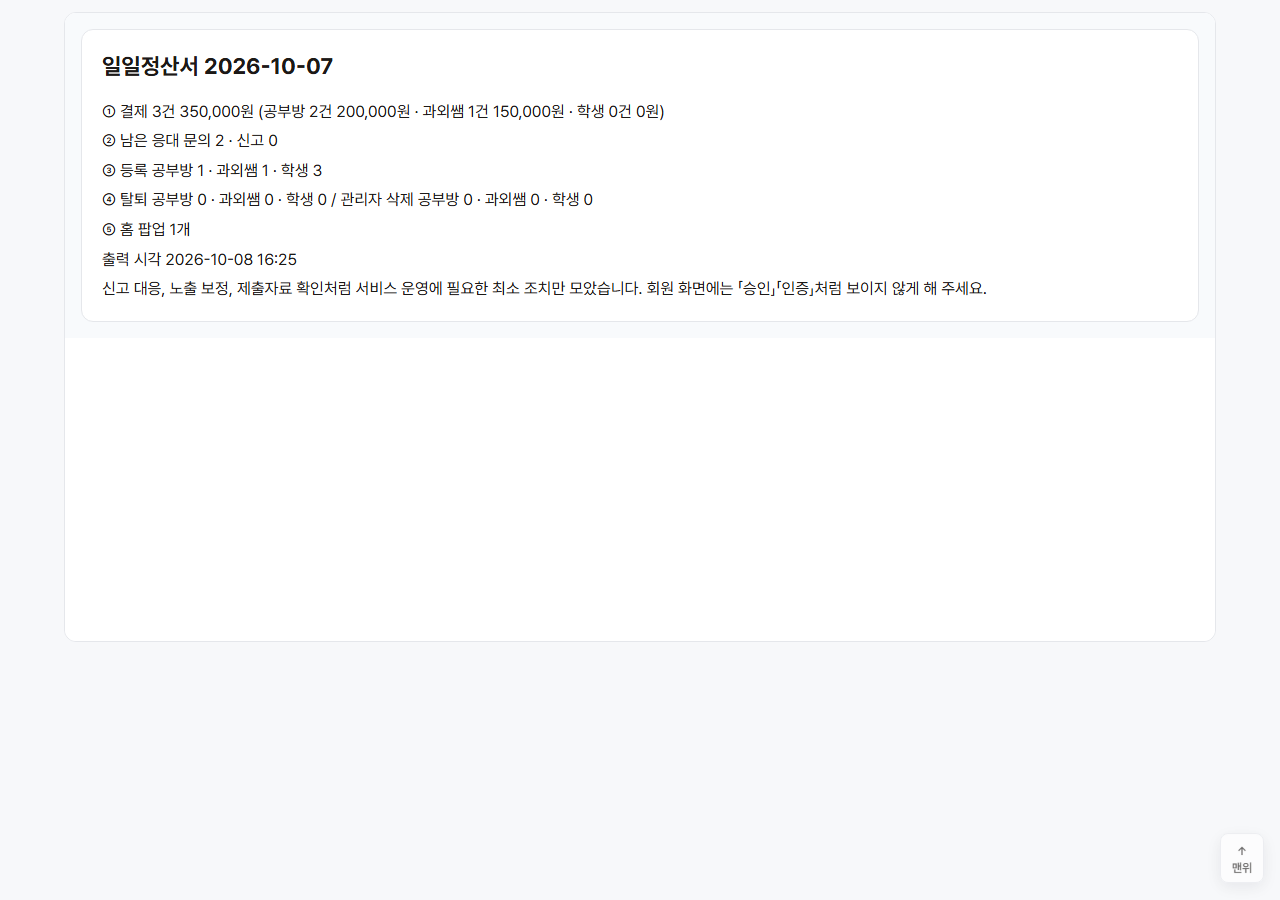
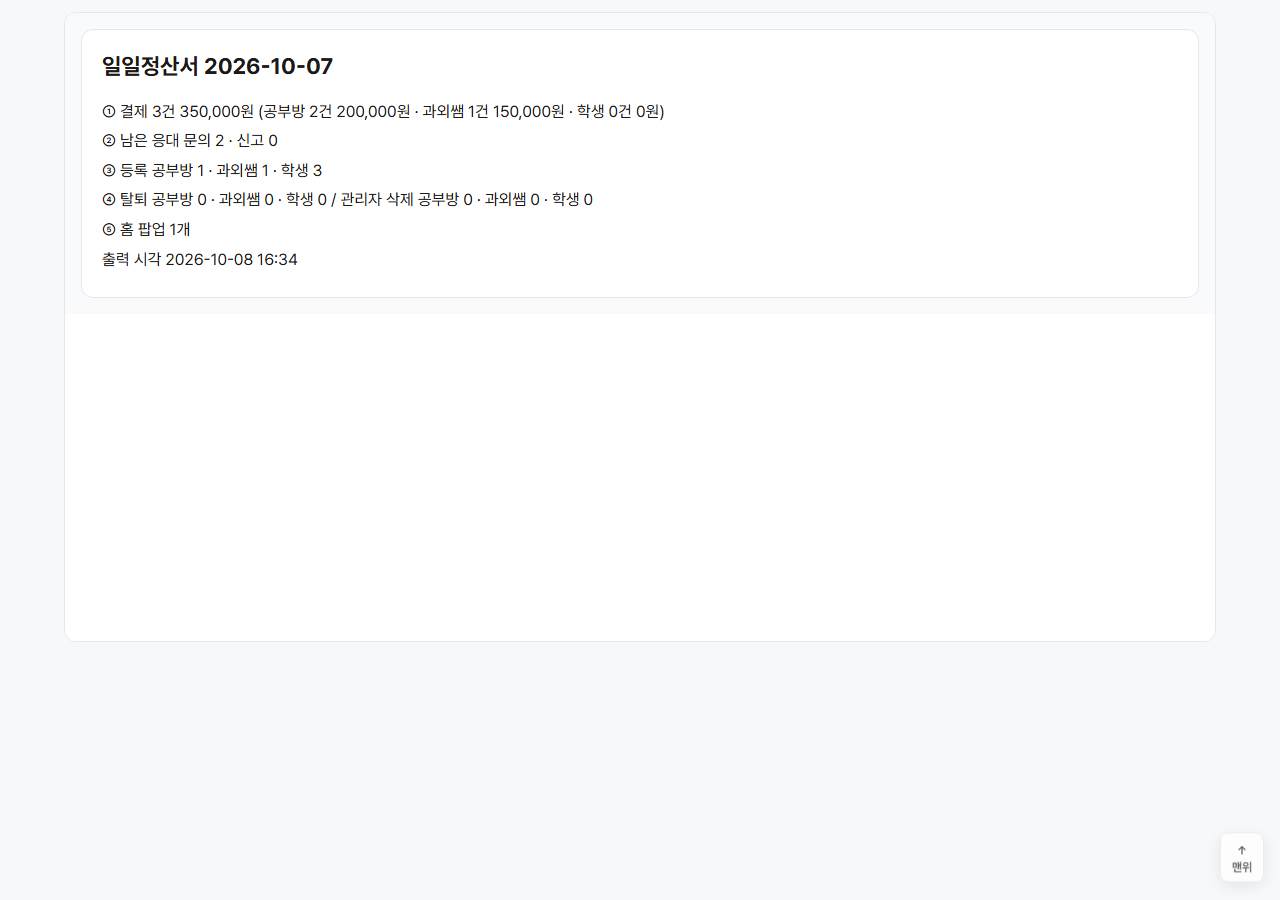
fix(admin): 보고서 인쇄 시 운영 홈 안내문 격리 숨김 및 3초 타이머 제거

Changed region(s): [[0.0625, 0.28, 0.7812, 0.3422]]

diff --git a/preview/home-ui/src/styles/admin-settlement.css b/preview/home-ui/src/styles/admin-settlement.css
@@ -76,12 +76,10 @@ html.is-settlement-printing .preview-toolbar,
 html.is-settlement-printing .site-footer,
 html.is-settlement-printing .admin-topbar,
 html.is-settlement-printing .admin-shell .sup-panel-card__head,
-html.is-settlement-printing .admin-shell .a28-today,
-html.is-settlement-printing .admin-shell .a28-ops-tip,
-html.is-settlement-printing .admin-shell .a28-promo-quick,
-html.is-settlement-printing .admin-shell .a28-lists,
-html.is-settlement-printing .admin-shell .sup-admin-hub,
-html.is-settlement-printing .admin-shell .a28-hub-settlement > h3,
+html.is-settlement-printing .admin-shell .a28-hub-body > :not(.a28-hub-settlement),
+html.is-settlement-printing .admin-shell .a28-hub-settlement > :not([data-settlement-root]),
+html.is-settlement-printing .admin-shell [data-settlement-root] > :not(.settlement-print-sheet),
+html.is-settlement-printing .admin-shell .sup-panel-card__body > :not(.a28-hub-body):not([data-settlement-root]),
 html.is-settlement-printing .home-body > :not(.home-main) {
   display: none !important;
 }
@@ -108,12 +106,10 @@ html.is-settlement-printing body {
   html.is-settlement-printing .site-footer,
   html.is-settlement-printing .admin-topbar,
   html.is-settlement-printing .admin-shell .sup-panel-card__head,
-  html.is-settlement-printing .admin-shell .a28-today,
-  html.is-settlement-printing .admin-shell .a28-ops-tip,
-  html.is-settlement-printing .admin-shell .a28-promo-quick,
-  html.is-settlement-printing .admin-shell .a28-lists,
-  html.is-settlement-printing .admin-shell .sup-admin-hub,
-  html.is-settlement-printing .admin-shell .a28-hub-settlement > h3,
+  html.is-settlement-printing .admin-shell .a28-hub-body > :not(.a28-hub-settlement),
+  html.is-settlement-printing .admin-shell .a28-hub-settlement > :not([data-settlement-root]),
+  html.is-settlement-printing .admin-shell [data-settlement-root] > :not(.settlement-print-sheet),
+  html.is-settlement-printing .admin-shell .sup-panel-card__body > :not(.a28-hub-body):not([data-settlement-root]),
   html.is-settlement-printing .home-body > :not(.home-main) {
     display: none !important;
   }

diff --git a/preview/home-ui/src/admin/a28-settlement.js b/preview/home-ui/src/admin/a28-settlement.js
@@ -297,11 +297,23 @@ export function bindSettlement(root, _rerender) {
       time.textContent = `${C.printTime} ${now.getFullYear()}-${pad(now.getMonth() + 1)}-${pad(now.getDate())} ${pad(now.getHours())}:${pad(now.getMinutes())}`;
     }
     document.documentElement.classList.add('is-settlement-printing');
+    let mql = null;
+    let mqlHandler = null;
     const cleanUp = () => {
       document.documentElement.classList.remove('is-settlement-printing');
+      window.removeEventListener('afterprint', cleanUp);
+      if (mql && mqlHandler) {
+        mql.removeEventListener('change', mqlHandler);
+      }
     };
     window.addEventListener('afterprint', cleanUp, { once: true });
-    window.setTimeout(cleanUp, 3000);
+    if (typeof window.matchMedia === 'function') {
+      mql = window.matchMedia('print');
+      mqlHandler = (e) => {
+        if (!e.matches) cleanUp();
+      };
+      mql.addEventListener('change', mqlHandler);
+    }
     window.print();
   });
   box.querySelectorAll('[data-settlement-open]').forEach((btn) => {

diff --git a/preview/home-ui/src/admin/a28-screens.js b/preview/home-ui/src/admin/a28-screens.js
@@ -645,7 +645,8 @@ function renderHub() {
   return renderPanel(
     A28_COPY.hubTitle,
     'A28-01',
-    `${renderSettlementHub()}
+    `<div class="a28-hub-body">
+     ${renderSettlementHub()}
      ${renderTodayMarkup()}
      ${renderOpsTip()}
      ${renderPromoQuickBar()}
@@ -654,7 +655,8 @@ function renderHub() {
        <div><h3>할 수 있는 일</h3><ul>${ALLOWED_OPERATOR_ACTIONS.map((a) => `<li>${esc(a)}</li>`).join('')}</ul></div>
        <div><h3>하지 않는 일</h3><ul>${FORBIDDEN_OPERATOR_ACTIONS.map((a) => `<li>${esc(a)}</li>`).join('')}</ul></div>
      </div>
-     <div class="sup-admin-hub">${cardHtml}</div>`,
+     <div class="sup-admin-hub">${cardHtml}</div>
+    </div>`,
   );
 }
 

diff --git a/docs/worklog/2026/10/2026-10-08-admin-report-print-menu.md b/docs/worklog/2026/10/2026-10-08-admin-report-print-menu.md
@@ -51,12 +51,10 @@
 - **내용:**
   - `[data-settlement-print]:disabled`에 대한 시각적 스타일(opacity, cursor 등)이 지정되어 있지 않아, 사용자가 볼 때 버튼이 활성화된 것처럼 파란색으로 보이지만 실제로는 `disabled` 상태라 눌러도 아무 반응이 없었음.
 
-### 원인 4: ready 상태에서도 인쇄가 되지 않는 문제 (User Activation & requestAnimationFrame)
-- **위치:** `preview/home-ui/src/admin/a28-settlement.js` (신규 291~315행)
+### 예방 보강 4: 비동기 호출 지연 방지 및 인쇄 모드 해제 보강
+- **위치:** `preview/home-ui/src/admin/a28-settlement.js` (291~315행)
 - **내용:**
-  - 브라우저는 보안 정책(User Activation / Transient Activation)에 따라 사용자의 직접적인 마우스 클릭/키 입력 핸들러(동기 context) 내에서만 `window.print()`를 신뢰성 있게 실행함.
-  - 만약 `requestAnimationFrame` 또는 비동기 콜백 내부에서 `window.print()`를 지연 호출할 경우, 브라우저의 사용자 제스처 토큰이 만료되어 호출이 무시되거나 백그라운드 탭에서 아예 프레임이 돌지 않아 `window.print()`가 실행되지 않는 현상이 발생함.
-  - 이에 따라 동기적으로 `window.print()`를 즉시 실행하고, `afterprint` 및 3초 timeout fallback으로 `is-settlement-printing` 클래스를 안전하게 해제하도록 개선함.
+  - `window.print()`를 사용자 제스처 동기 context에서 즉시 실행하고, `afterprint` 및 `matchMedia('print')` 보조로 `is-settlement-printing` 클래스를 안전하게 정리하도록 예방 차원에서 보강함 (확인된 원인은 1~3번 항목임).
 
 ---
 
@@ -126,13 +124,44 @@
 
 1. `01-admin-hub-report-above-today.png`: 운영 홈(`/admin`)에서 보고서가 「오늘 할 일」 바로 위에 배치된 모습
 2. `02-admin-sidebar-menu-order.png`: 좌측 메뉴에서 「홍보 런치」가 「공지·안내 글」 아래, 「마켓·결제」 위에 배치된 모습
-3. `03-report-day-ready-print.png`: 일간 ready 상태 인쇄 모드(`@media print`) 시트 렌더링 모습
-4. `04-report-week-missing-print.png`: 주간 missing(내역 없음) 상태 인쇄 모드 시트 렌더링 모습
-5. `05-report-month-missing-print.png`: 월간 missing(내역 없음) 상태 인쇄 모드 시트 렌더링 모습
+3. `03-report-day-ready-print.png`: 일간 ready 상태 인쇄 모드(`@media print`) 시트 렌더링 모습 (격리 단언 통과)
+4. `04-report-week-missing-print.png`: 주간 missing(내역 없음) 상태 인쇄 모드 시트 렌더링 모습 (격리 단언 통과)
+5. `05-report-month-missing-print.png`: 월간 missing(내역 없음) 상태 인쇄 모드 시트 렌더링 모습 (격리 단언 통과)
 6. `06-admin-settlement-direct-page.png`: `#/admin/settlement` 직접 접속 시 정산 보고서 단독 화면 렌더링 모습
+7. `07-admin-settlement-direct-print.png`: `#/admin/settlement` 직접 접속 후 인쇄 모드 시트 렌더링 모습 (격리 단언 통과)
 
 ---
 
-## 8. 남은 문제 및 불확실한 점
+## 8. 메인 검수 반려 1 (2026-10-08)
 
-- 없음. 사용자 요청 3가지(인쇄 주간/월간 빈 포맷 노출 및 인쇄 무반응 수정, 보고서 운영 홈 일일업무 상단 배치, 홍보 런치 메뉴 순서 이동)가 모두 실브라우저 캡처 및 단위 테스트를 통해 완전히 검증됨.
+### 반려 내용 원문
+> 1. **인쇄물에 운영 홈 안내문이 섞임 (필수):** `04-report-week-missing-print.png`에서 출력 시각 아래에 「신고 대응, 노출 보정, 제출자료 확인처럼 서비스 운영에 필요한 최소 조치만 모았습니다…」 문장이 찍힌다. 이것은 `a28-screens.js` `renderHub()`의 `<p>${esc(A28_COPY.hubLead)}</p>`로, 인쇄 모드에서 숨겨지지 않았다. 운영 홈에서 인쇄할 때 보고서 인쇄 시트(제목·①~⑤·출력 시각) 외에는 아무것도 찍히지 않게 하라. 선택자를 하나씩 나열하지 말고, 보고서 섹션 외 운영 홈 패널 본문의 다른 형제 요소를 모두 숨기는 방식(예: hub 패널 본문 컨테이너에 클래스/속성을 주고 `html.is-settlement-printing` 아래에서 `> :not(.a28-hub-settlement)` 숨김)을 우선 검토하라. 화면 표시는 바뀌면 안 된다.
+> 2. **3초 타이머 제거:** `bindSettlement` 인쇄 핸들러의 `window.setTimeout(cleanUp, 3000)`은 `window.print()`가 비차단으로 동작하는 브라우저에서 인쇄 대화상자가 열려 있는 동안 인쇄 모드를 풀어 전체 페이지가 인쇄될 위험이 있다. 제거하고 `afterprint`만 쓰라(필요하면 `matchMedia('print')`의 change에서 matches=false일 때 정리 보조 허용). 원인 분석 4번(User Activation)은 추측이므로 작업 기록에서 「확인된 원인」이 아니라 「예방 보강」으로 표기를 고쳐라. 확인된 원인은 1~3번(조기 return으로 버튼 비활성 유지, 시트 비움, disabled 스타일 부재)이다.
+> 3. 실렌더 재촬영: `scripts/capture-admin-report-menu.mjs`에 「운영 홈에서 인쇄 모드(print media + is-settlement-printing)일 때 보이는 텍스트에 hubLead 문장·「오늘 할 일」·사이드바 메뉴가 없고, 보고서 제목·①~⑤·출력 시각만 있다」는 단언을 추가하고 03/04/05 스크린샷을 다시 찍어라. `/admin/settlement` 단독 화면 인쇄도 같은 단언으로 한 장 추가(07-...png).
+> 4. 재검증: `verify-admin-162-settlement.mjs`, `verify-admin-today-hub.mjs`, `verify-admin-preview-labels.mjs`, `npm run verify:shop-page`, 캡처 스크립트, `npm run build:dothome`.
+> 5. 작업 기록에 「메인 검수 반려 1」 절을 추가(반려 내용 원문 + 수정 + 검증 결과).
+
+### 수정 내용
+1. **운영 홈 안내문 인쇄 섞임 방지:**
+   - `preview/home-ui/src/admin/a28-screens.js`: `renderHub()`에서 본문 컨테이너 `<div class="a28-hub-body">`를 도입.
+   - `preview/home-ui/src/styles/admin-settlement.css`: `html.is-settlement-printing .admin-shell .a28-hub-body > :not(.a28-hub-settlement)` 및 `.sup-panel-card__body > :not(.a28-hub-body):not([data-settlement-root])` 규칙으로 형제 요소 전체 일괄 숨김 적용.
+2. **3초 타이머 제거:**
+   - `preview/home-ui/src/admin/a28-settlement.js`: `window.setTimeout(cleanUp, 3000)`을 완전히 제거하고 `afterprint` 및 `window.matchMedia('print')` change 이벤트 리스너를 통한 안전한 정리 로직으로 전환.
+   - 원인 4번을 추측/예방 보강으로 재분류하고 확인된 원인은 1~3번으로 문서 정리.
+3. **실렌더 격리 단언 및 07 스크린샷 추가:**
+   - `scripts/capture-admin-report-menu.mjs`에 `assertPrintIsolation` 단언 함수 작성. 인쇄 모드 텍스트에 hubLead 문장, 「오늘 할 일」, 사이드바 메뉴가 없고 보고서 제목, ①~⑤ 줄, 출력 시각만 존재하는지 검사.
+   - 03, 04, 05 스크린샷 재촬영 및 `07-admin-settlement-direct-print.png` 추가 촬영 완료.
+
+### 검증 결과
+- `node scripts/capture-admin-report-menu.mjs`: 일간 ready, 주간 missing, 월간 missing, 단독화면 인쇄 모두 `assertPrintIsolation` 단언 통과 (PASS).
+- `verify-admin-162-settlement.mjs`: 57개 항목 전체 PASS.
+- `verify-admin-today-hub.mjs`: 61개 항목 전체 PASS.
+- `verify-admin-preview-labels.mjs`: 202개 항목 전체 PASS.
+- `verify:shop-page`: 54개 항목 전체 PASS.
+- `npm run build:dothome`: 성공 (Exit code: 0).
+
+---
+
+## 9. 남은 문제 및 불확실한 점
+
+- 없음. 반려 1회에 대한 지시사항(안내문 인쇄 섞임 방지, 3초 타이머 제거, 격리 단언 추가 및 실렌더 재촬영, 단위/빌드 재검증)이 모두 정확히 반영되고 통과됨.
